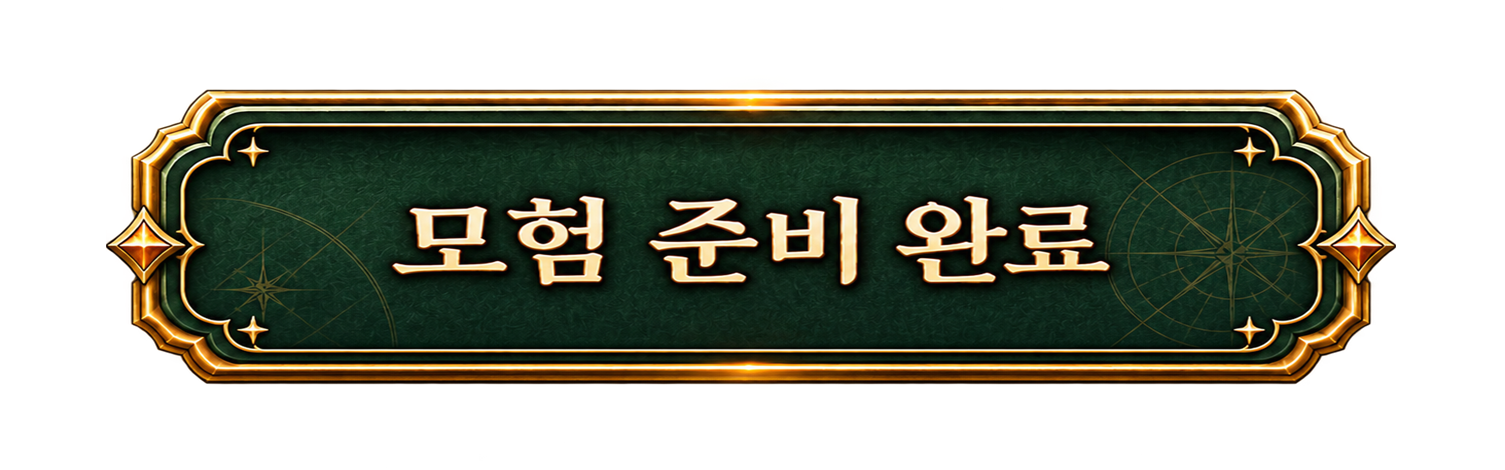
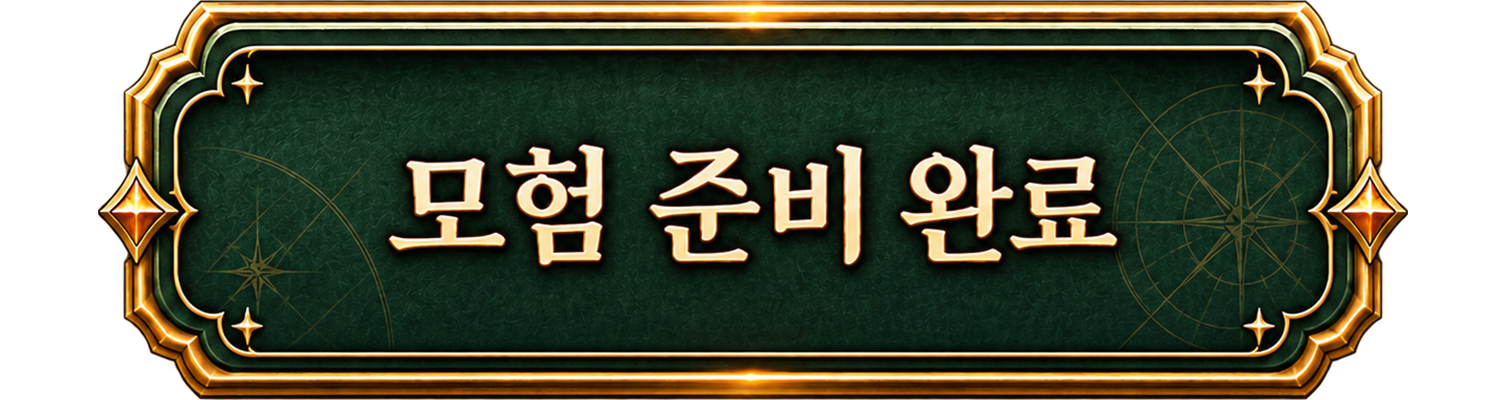
feat: 시작화면 포스터 카피 복원(v4 아트)·NBTI 2분할 조정·최종 CTA 왜곡 수정·파비콘
- 시작화면: 글씨 없는 v4 배경, 삭제했던 카피 전부 DOM 복원, 좌측을 제목처럼 채우는
  포스터 스케일 타이포, 버튼 라벨 '교실 NBTI 시작하기'
- NBTI 질문: 좌측 보드 850px 고정(질문마다 크기 불변)·좌측 끝 밀착·위로 이동,
  우측 플레이어 보드 우상단(시선 높이)·불투명 배경·아바타 헤더·슬롯 확대
- 헤더: 곡제목 좌로 흐르는 마퀴 복원, 로고-워드마크 균형 조정
- 모험 준비 완료 4상태: 비율 왜곡 제거(알파 크롭+등비 재생성), 지역 9열로 밀림 해소
- 닉네임 플레이스홀더·보조문구 위치, 파비콘 엠블럼+비활성 회색 스왑
- 선생님 패널 성장 목표 불릿, 정면 아바타

diff --git a/src/features/journey/journey-shared.css b/src/features/journey/journey-shared.css
@@ -7,35 +7,14 @@
 
 .journey-header { align-items: center; border-bottom: 1px solid rgba(255,242,201,.15); display: flex; height: clamp(66px, 8.3vh, 88px); justify-content: space-between; left: 0; padding: 0 clamp(22px, 4.1vw, 78px); position: absolute; right: 0; top: 0; z-index: 5; }.journey-header .logo-slot { align-items: center; background: radial-gradient(circle at 35% 28%, rgba(255,242,184,.2), transparent 31%), rgba(4,18,11,.68); border: 1px solid rgba(232,202,112,.72); border-radius: 50%; box-shadow: inset 0 0 0 2px rgba(255,246,204,.08), 0 4px 12px rgba(0,0,0,.28); color: #f3d982; display: grid; height: 44px; justify-items: center; padding: 3px; position: relative; width: 44px; }.journey-header .logo-slot::after { content: none; }.journey-header .logo-slot > svg { height: 34px; width: 34px; }.journey-header__actions { align-items: center; display: flex; gap: 8px; }.journey-header .audio-toggle { align-items: center; background: linear-gradient(145deg, rgba(32,54,31,.9), rgba(7,24,14,.92)); border: 1px solid rgba(235,207,115,.48); border-radius: 12px; box-shadow: inset 0 1px rgba(255,255,255,.11), 0 4px 10px rgba(0,0,0,.22); color: #fff2be; cursor: pointer; display: inline-flex; height: 44px; justify-content: center; position: relative; transition: background .2s ease, border-color .2s ease, box-shadow .2s ease, transform .2s ease; width: 44px; }.journey-header .audio-toggle:hover, .journey-header .audio-toggle:focus-visible { background: linear-gradient(145deg, rgba(59,101,52,.96), rgba(13,55,30,.96)); border-color: #f2d77a; box-shadow: inset 0 1px rgba(255,255,255,.18), 0 5px 12px rgba(0,0,0,.28); transform: translateY(-1px); }.journey-header .audio-toggle.is-enabled { background: linear-gradient(145deg, #4d9654, #1f633e); }.journey-header .audio-toggle__slash { background: #f3d274; height: 2px; position: absolute; transform: rotate(-45deg); width: 25px; }.journey-header__teacher { align-items: center; background: linear-gradient(135deg, rgba(49,66,34,.96), rgba(20,40,23,.96)); border: 1px solid rgba(235,207,115,.58); border-radius: 12px; box-shadow: inset 0 1px rgba(255,255,255,.12), 0 4px 11px rgba(0,0,0,.24); color: #fff3c6; cursor: pointer; display: inline-flex; font-size: 13px; font-weight: 800; gap: 7px; height: 44px; margin-left: 2px; padding: 0 12px 0 5px; transition: background .2s ease, border-color .2s ease, box-shadow .2s ease, transform .2s ease; }.journey-header__teacher:hover, .journey-header__teacher:focus-visible { background: linear-gradient(135deg, rgba(71,94,45,.98), rgba(25,55,29,.98)); border-color: #f2d77a; box-shadow: inset 0 1px rgba(255,255,255,.17), 0 5px 12px rgba(0,0,0,.28); transform: translateY(-1px); }.journey-header__teacher > span { align-items: center; background: linear-gradient(145deg, #507d4a, #a47b32); border: 1px solid rgba(255,242,194,.72); border-radius: 50%; color: #fff8db; display: inline-flex; font-size: 10px; height: 31px; justify-content: center; width: 31px; }
 
-/* Start screen, wide layout: start-master-v3 already paints the kicker, headline, sub-copy,
-   fact chips, quest board and headphone note, so the DOM only contributes the two buttons.
-   The copy stays in the markup because phones swap to a textless plate and still need it. */
-@media (min-width: 701px) {
-  .journey-scene--start .journey-start__copy > :not(.journey-start__actions) { display: none; }
-  /* The painting carries its own darkening; the shared wash would double it and muddy the art. */
-  .journey-scene--start .journey-art__wash,
-  .journey-scene--start .journey-art__motes,
-  .journey-scene--start .journey-art__leaves { display: none; }
-  /* fill, not cover or contain: this master is a layout whose painted copy has to stay
-     under buttons pinned to percentages of it. cover crops (moving the copy sideways) and
-     contain letterboxes; fill maps the image 1:1 onto the viewport, so every percentage
-     below is exact and no edge is lost. The 16:9 -> 16:10 stretch is imperceptible here. */
-  .journey-scene--start .journey-art img { object-fit: fill; }
-  .journey-scene--start .journey-scene__stage { padding: 0; }
-  .journey-scene--start .journey-start__copy { align-self: stretch; height: 100%; justify-self: stretch; margin: 0; max-width: none; padding: 0; position: relative; width: 100%; }
-  /* Spans exactly the three painted fact chips above it (8.07%-41.27% of the master),
-     in the empty band between those chips and the headphone note. */
-  .journey-scene--start .journey-start__actions { align-items: center; display: flex; gap: clamp(8px, .7vw, 14px); left: 8.07%; max-width: none; position: absolute; top: 74.5%; width: 33.2%; }
-  .journey-scene--start .journey-start__actions .journey-button { flex: 1 1 0; font-size: clamp(11px, .95vw, 16px); gap: 7px; min-height: clamp(38px, 6.4svh, 58px); min-width: 0; padding: 0 clamp(6px, .7vw, 14px); }
-  .journey-scene--start .journey-start__actions .journey-button--secondary { justify-self: stretch; }
-  .journey-scene--start .journey-start__actions .journey-button__seal { flex: 0 0 auto; height: clamp(18px, 1.5vw, 26px); width: clamp(18px, 1.5vw, 26px); }
-  .journey-scene--start .journey-start__actions .journey-button > svg { flex: 0 0 auto; height: clamp(15px, 1.2vw, 21px); width: clamp(15px, 1.2vw, 21px); }
-}
-
 /* Header cluster — one translucent glass pill holding bgm button, song title, equalizer,
    and the profile trigger, mirroring Be a Googler's desktop cluster shape. */
 .journey-cluster { align-items: center; backdrop-filter: blur(22px) saturate(1.08); background: linear-gradient(128deg, rgba(20,42,26,.62), rgba(8,26,15,.5)); border: 1px solid rgba(255,244,204,.34); border-radius: 34px; box-shadow: 0 10px 24px rgba(0,0,0,.26), inset 0 1px 0 rgba(255,252,230,.22); display: flex; gap: 10px; min-height: 58px; padding: 0 8px 0 8px; }
-.journey-song { color: #fff3c6; display: block; flex: 0 1 auto; font-size: clamp(12px, .72vw, 14px); font-weight: 700; letter-spacing: -.02em; line-height: 1.4; min-width: 0; overflow: hidden; text-overflow: ellipsis; white-space: nowrap; }
+.journey-song { color: #fff3c6; display: block; flex: 0 1 auto; font-size: clamp(12px, .72vw, 14px); font-weight: 700; letter-spacing: -.02em; line-height: 1.4; mask-image: linear-gradient(90deg, transparent, #000 9%, #000 91%, transparent); max-width: clamp(150px, 14vw, 240px); min-width: 0; overflow: hidden; position: relative; white-space: nowrap; }
+.journey-song__track { animation: journey-song-marquee 16s linear infinite; display: flex; width: max-content; }
+.journey-song__track > span { flex: 0 0 auto; padding-right: 8.5em; }
+@keyframes journey-song-marquee { from { transform: translateX(0); } to { transform: translateX(-50%); } }
+@media (prefers-reduced-motion: reduce) { .journey-song__track { animation: none; } .journey-song__track > span:last-child { display: none; } }
 .journey-equalizer { align-items: end; display: grid; flex: 0 0 auto; gap: 3px; grid-template-columns: repeat(6, 3px); height: 24px; justify-content: center; width: 40px; }
 .journey-equalizer i { background: linear-gradient(#ffe9a0, #e0ab3c); border-radius: 99px; box-shadow: 0 0 6px rgba(255,222,130,.45); height: 6px; opacity: .5; }
 .journey-equalizer.is-playing i { animation: journey-equalize .78s ease-in-out infinite alternate; opacity: 1; }
@@ -63,7 +42,25 @@
 @media (max-width: 1280px) { .journey-song, .journey-equalizer { display: none; } }
 @media (max-width: 900px) { .journey-cluster { backdrop-filter: none; background: rgba(7,24,14,.72); gap: 6px; min-height: 50px; } .journey-cluster__divider { display: none; } .journey-header__identity { display: none; } .journey-header__profile { padding: 2px; } .journey-header__profile img { height: 38px; width: 38px; } .journey-header__profile > svg { display: none; } }
 
-.journey-scene__stage { align-items: center; display: grid; min-height: 100svh; padding: calc(clamp(62px, 8.3vh, 88px) + clamp(24px, 4.2vh, 64px)) clamp(24px, 5.1vw, 98px) clamp(26px, 4.3vh, 55px); position: relative; width: 100%; }.journey-enter { animation: journey-enter .22s both cubic-bezier(.2,.8,.2,1); }.journey-kicker { color: var(--gold); font-size: clamp(11px, .82vw, 15px); font-weight: 900; letter-spacing: .16em; margin: 0 0 16px; text-transform: uppercase; }.journey-kicker span { padding: 0 5px; }.journey-notice { background: rgba(8,23,13,.88); border: 1px solid rgba(246,216,127,.54); border-radius: 10px; bottom: 21px; color: #fff4cb; font-size: 13px; font-weight: 700; left: 50%; margin: 0; max-width: min(90vw, 560px); padding: 10px 16px; position: fixed; text-align: center; transform: translateX(-50%); z-index: 20; }
+.journey-scene__stage { align-items: center; display: grid; min-height: 100svh; padding: calc(clamp(62px, 8.3vh, 88px) + clamp(24px, 4.2vh, 64px)) clamp(24px, 5.1vw, 98px) clamp(26px, 4.3vh, 55px); position: relative; width: 100%; }
+/* Poster-scale start copy: the headline owns the dark left half of the art. Placed after
+   the base rules (and matching the height-capped override below by scope) so it wins. */
+@media (min-width: 701px) {
+  .journey-scene--start .journey-start__copy { margin-left: clamp(4px, 1.2vw, 30px); max-width: min(44vw, 800px); }
+  .journey-scene--start .journey-kicker { font-size: clamp(13px, 1vw, 19px); margin-bottom: clamp(16px, 2.2vh, 30px); }
+  .journey-scene--start .journey-start__copy h1 { font-size: clamp(52px, 5.5vw, 112px); line-height: 1.04; }
+  .journey-scene--start .journey-start__copy h1 span { display: block; }
+  .journey-scene--start .journey-start__description { font-size: clamp(16px, 1.25vw, 23px); line-height: 1.75; margin: clamp(26px, 4vh, 48px) 0 clamp(24px, 3.6vh, 44px); }
+  .journey-scene--start .journey-start__cards { gap: clamp(11px, 1vw, 18px); margin-bottom: clamp(24px, 3.6vh, 46px); max-width: 760px; }
+  .journey-scene--start .journey-start__cards li { min-height: clamp(84px, 9.4vh, 108px); padding: 12px 15px; }
+  .journey-scene--start .journey-start__cards b { font-size: clamp(14px, 1.05vw, 19px); }
+  .journey-scene--start .journey-start__cards small { font-size: clamp(11px, .85vw, 15px); }
+  .journey-scene--start .journey-start__cards svg { height: clamp(30px, 2.4vw, 44px); width: clamp(30px, 2.4vw, 44px); }
+  .journey-scene--start .journey-start__actions { gap: clamp(12px, 1.4vh, 18px); max-width: 660px; }
+  .journey-scene--start .journey-start__actions .journey-button--primary { font-size: clamp(17px, 1.35vw, 25px); min-height: clamp(64px, 7.6vh, 84px); }
+  .journey-scene--start .journey-start__actions .journey-button--secondary { font-size: clamp(13px, 1vw, 18px); min-height: clamp(50px, 5.8vh, 64px); min-width: 300px; }
+  .journey-scene--start .journey-start__audio-note { font-size: clamp(12px, .9vw, 16px); margin-top: clamp(16px, 2.4vh, 28px); }
+}.journey-enter { animation: journey-enter .22s both cubic-bezier(.2,.8,.2,1); }.journey-kicker { color: var(--gold); font-size: clamp(11px, .82vw, 15px); font-weight: 900; letter-spacing: .16em; margin: 0 0 16px; text-transform: uppercase; }.journey-kicker span { padding: 0 5px; }.journey-notice { background: rgba(8,23,13,.88); border: 1px solid rgba(246,216,127,.54); border-radius: 10px; bottom: 21px; color: #fff4cb; font-size: 13px; font-weight: 700; left: 50%; margin: 0; max-width: min(90vw, 560px); padding: 10px 16px; position: fixed; text-align: center; transform: translateX(-50%); z-index: 20; }
 
 .journey-button { align-items: center; border-radius: 12px; cursor: pointer; display: inline-flex; font-weight: 900; justify-content: center; transition: background .2s ease, border-color .2s ease, box-shadow .2s ease, transform .2s ease; }.journey-button:hover:not(:disabled), .journey-button:focus-visible:not(:disabled) { box-shadow: inset 0 1px rgba(255,255,255,.62), 0 8px 16px rgba(0,0,0,.3); transform: translateY(-1px); }.journey-button:active:not(:disabled) { transform: translateY(1px); }.journey-button:disabled { cursor: not-allowed; opacity: .55; }.journey-button--primary { background: linear-gradient(112deg, #70ad4b 0%, #2f884f 48%, #07563a 100%); border: 1px solid #eadb9c; border-bottom: 4px solid #0a422d; box-shadow: 0 0 0 1px rgba(237,211,124,.3), inset 0 2px rgba(255,255,255,.5), inset 0 -8px 17px rgba(0,48,27,.24), 0 8px 15px rgba(0,0,0,.34); color: #fffdee; font-size: clamp(15px,1.25vw,21px); gap: 12px; min-height: 65px; padding: 0 22px; text-shadow: 0 2px 3px rgba(0,0,0,.3); }.journey-button--primary > span { flex: 1; text-align: center; }.journey-button__seal { height: 31px; width: 31px; }.journey-button--secondary { background: linear-gradient(135deg,#f6f1df,#d8c8a6); border: 1px solid #c8aa6b; border-bottom: 3px solid #947b54; box-shadow: inset 0 1px rgba(255,255,255,.82), inset 0 -5px 10px rgba(113,80,35,.08), 0 4px 10px rgba(0,0,0,.22); color: #3d3425; font-size: 14px; gap: 8px; min-height: 50px; padding: 0 18px; }
 
@@ -96,8 +93,8 @@
 .journey-header .classcade-wordmark {
   display: block;
   filter: drop-shadow(0 0 10px rgba(255,214,110,.4)) drop-shadow(0 1px 4px rgba(0,0,0,.5));
-  height: 42px;
-  margin: 5px 0 0 -8px;
+  height: 33px;
+  margin: 14px 0 0 -10px;
   object-fit: contain;
   position: relative;
   width: auto;
@@ -118,8 +115,12 @@
 .journey-question__sidebar { background: linear-gradient(160deg, rgba(255,251,232,.7), rgba(228,203,140,.55)); border: 1px solid rgba(123,82,27,.32); border-radius: 4px; box-shadow: inset 0 1px rgba(255,255,255,.6); color: #4a3819; padding: 16px 15px; }
 .journey-question__sidebar > .journey-kicker { color: #8c672a; font-size: 10px; margin: 0; }
 .journey-question__sidebar > h2 { color: #2f2718; font-family: 'Gowun Batang', serif; font-size: 17px; letter-spacing: -.04em; margin: 2px 0 10px; }
-.journey-question__sidebar-emblem { display: grid; place-items: center; margin: 0 auto 10px; width: 58px; }
-.journey-question__sidebar-emblem svg { filter: drop-shadow(0 2px 6px rgba(60,38,10,.28)); height: 58px; width: 58px; }
+/* Same circle size the old compass emblem used (58px), left-aligned with the name beside it. */
+.journey-question__sidebar-profile { align-items: center; display: flex; gap: 9px; margin: 0 0 10px; }
+.journey-question__sidebar-profile img { border: 2px solid rgba(255,250,224,.9); border-radius: 50%; box-shadow: 0 2px 8px rgba(60,38,10,.3); flex: 0 0 auto; height: 58px; object-fit: cover; width: 58px; }
+.journey-question__sidebar-profile span { display: grid; gap: 1px; min-width: 0; }
+.journey-question__sidebar-profile small { color: #8c672a; font-size: 10px; font-weight: 800; letter-spacing: -.02em; }
+.journey-question__sidebar-profile strong { color: #2f2718; font-size: 15px; font-weight: 820; letter-spacing: -.03em; overflow: hidden; text-overflow: ellipsis; white-space: nowrap; }
 .journey-question__sidebar-stat { align-items: baseline; display: flex; font-size: 11px; font-weight: 800; justify-content: space-between; }
 .journey-question__sidebar-stat b { color: #2d7d49; font-size: 15px; }
 .journey-question__sidebar-track { background: rgba(88,112,57,.18); border: 1px solid rgba(70,104,43,.25); border-radius: 999px; height: 6px; margin: 6px 0 14px; overflow: hidden; }
@@ -131,8 +132,9 @@
 .journey-question__sidebar-chips { display: flex; flex-wrap: wrap; gap: 6px; }
 .journey-question__sidebar-chips span { background: rgba(255,255,255,.55); border: 1px solid rgba(123,82,27,.3); border-radius: 999px; color: #8c7749; font-size: 11px; font-weight: 800; padding: 5px 10px; }
 .journey-question__sidebar-chips span.is-revealed { background: rgba(58,123,64,.14); border-color: #3a7b40; color: #2d7d49; }
-.journey-question__sidebar-slots { display: grid; gap: 7px; grid-template-columns: repeat(4, 1fr); }
-.journey-question__sidebar-slots span { align-items: center; aspect-ratio: 1; background: rgba(255,255,255,.5); border: 1px solid rgba(123,82,27,.28); border-radius: 8px; color: #a4915f; display: grid; font-size: 15px; font-weight: 800; justify-content: center; }
+.journey-question__sidebar-slots { display: grid; gap: 8px; grid-template-columns: repeat(4, 1fr); }
+.journey-question__sidebar-slots span { align-items: center; aspect-ratio: 1; background: rgba(255,255,255,.5); border: 1px solid rgba(123,82,27,.28); border-radius: 8px; color: #a4915f; display: grid; font-size: 17px; font-weight: 800; justify-content: center; }
+.journey-question__sidebar-slots span > svg { height: 24px; width: 24px; }
 .journey-question__sidebar-slots span.is-unlocked { background: rgba(58,123,64,.14); border-color: #3a7b40; color: #2d7d49; }
 .journey-game-choice { max-width: 920px; }.journey-game-choice__body { padding: clamp(28px,4vw,58px) 0 26px; position: relative; text-align: center; z-index: 1; }.journey-game-choice__body > p:last-of-type { margin-left: auto; margin-right: auto; max-width: 560px; }.journey-game-choice__options { margin: 29px auto 0; max-width: 720px; }.journey-choice--game { min-height: 166px; }.journey-choice--game b, .journey-choice--game small { max-width: 82%; }
 

diff --git a/src/features/journey/scenes/NbtiScenes.tsx b/src/features/journey/scenes/NbtiScenes.tsx
@@ -1,11 +1,12 @@
 import { useState, type ReactNode } from 'react'
 import { prepNavBack, prepNavCtaEnabled, prepNavCtaDisabled } from '../../../components/prep/prepAssets'
+import profileAvatar from '../../../assets/brand/profile-avatar-front.png'
 import { ClasscadeLockup, CompassSeal, Icon, type IconName } from '../../../components/VisualPrimitives'
 import { NBTI_AXES, NBTI_QUESTIONS, NBTI_TOTAL_QUESTIONS, type NbtiAxis, type NbtiDirection } from '../../../data/nbti.provisional'
 import { getProvisionalResult } from '../../../data/nbtiResults.provisional'
 import { PrimaryButton, Progress, SceneFrame, SecondaryButton, type JourneySceneProps } from '../components/SceneFrame'
 
-const journeyItems = [{ icon: 'clock' as const, title: '약 2분', detail: '교실 장면 16개' }, { icon: 'spark' as const, title: '정답 없음', detail: '중립 선택 없음' }, { icon: 'gamepad' as const, title: '우리 반 놀이', detail: '결과로 이어져요' }]
+const journeyItems = [{ icon: 'clock' as const, title: '약 1분', detail: '간단한 여정' }, { icon: 'spark' as const, title: '캐릭터 성장', detail: '선택이 힘이 돼요' }, { icon: 'gamepad' as const, title: '우리 반 게임', detail: '까지 연결돼요' }]
 const directionLabels: Record<NbtiDirection, string> = { design: '설계', response: '반응', whole: '전체', individual: '개별', criteria: '기준', empathy: '공감', completion: '완성', expansion: '확장' }
 
 /** Real MBTI letters (E/I, S/N, T/F, J/P), built from the 16 questions' answers.
@@ -81,14 +82,16 @@ const ITEMS: readonly { icon: IconName | null; name: string }[] = [
   { icon: null, name: '빈 슬롯' },
 ]
 
-/** Placeholder character emblem until a growing-character illustration set exists — the panel's data (axis leanings, skill/item unlocks) is real and swaps in cleanly once art lands. */
-function GrowingPlayerPanel({ growth, answers }: { growth: number; answers: Record<string, string> }) {
+function GrowingPlayerPanel({ growth, answers, nickname }: { growth: number; answers: Record<string, string>; nickname?: string }) {
   const unlockedSkills = Math.min(SKILLS.length, Math.floor(growth / 25))
   return (
     <aside className="journey-panel journey-question__sidebar" aria-label="만들어지는 나의 교실 플레이어">
       <p className="journey-kicker">✦ 만들어지는</p>
       <h2>나의 교실 플레이어</h2>
-      <div className="journey-question__sidebar-emblem" aria-hidden="true"><CompassSeal /></div>
+      <div className="journey-question__sidebar-profile">
+        <img src={profileAvatar} alt="" aria-hidden="true" />
+        <span><small>교실 탐험가</small><strong>{nickname ?? '선생님'}</strong></span>
+      </div>
       <div className="journey-question__sidebar-stat"><span>현재 완성도</span><b>{growth}%</b></div>
       <div className="journey-question__sidebar-track" aria-hidden="true"><i style={{ width: `${growth}%` }} /></div>
       <div className="journey-question__sidebar-block">
@@ -129,19 +132,18 @@ function GrowingPlayerPanel({ growth, answers }: { growth: number; answers: Reco
 export function StartScene(props: JourneySceneProps) {
   return (
     <SceneFrame scene="start" {...props}>
-      {/* Desktop paints the headline, sub-copy, chips and headphone note into start-master-v3,
-          so CSS hides everything here except the buttons. Phones swap to a textless plate, so
-          the same markup still has to carry the copy there — hence hidden, not deleted. */}
+      {/* v4 art carries no UI text on the left, so the copy is live DOM again, matching the
+          reference lockup: kicker, headline with the gold word, sub-copy, fact chips,
+          stacked buttons, headphone note. The quest board is painted into the art. */}
       <div className="journey-start__copy journey-enter">
         <p className="journey-kicker"><span>✦</span> NBTI ADVENTURE <span>✦</span></p>
-        <h1 data-tune-id="main-title"><span>교실 속 나를 발견하다.</span><span><em>놀이로</em> 확장하다.</span></h1>
-        <p className="journey-start__description" data-tune-id="main-description">16개의 교실 장면에서 발견한 성향이, 우리 반 놀이의 시작점이 됩니다.</p>
-        <p className="journey-start__guide">평소의 성격이 아니라, 학생들 앞에 선 순간의 나를 떠올려 주세요.<br />두 선택 모두 좋은 교사의 방식입니다. 완전히 같지 않아도 교실에서 조금 더 자주 하는 쪽을 골라 주세요.</p>
+        <h1 data-tune-id="main-title"><span>당신의 교실 플레이</span><span><em>모험이</em> 시작됩니다</span></h1>
+        <p className="journey-start__description" data-tune-id="main-description">여러분의 선택으로 나의 교실 유형을 발견하고,<br />선생님 캐릭터를 성장시켜 보세요.</p>
         <ul className="journey-start__cards" aria-label="여정 정보">
           {journeyItems.map((item) => <li key={item.title}><Icon name={item.icon} size={25} /><span><b>{item.title}</b><small>{item.detail}</small></span></li>)}
         </ul>
         <div className="journey-start__actions">
-          <PrimaryButton onClick={() => props.onAction({ type: 'START_NBTI' })} tuneId="main-primary-cta">16개의 교실 장면 시작하기</PrimaryButton>
+          <PrimaryButton onClick={() => props.onAction({ type: 'START_NBTI' })} tuneId="main-primary-cta">교실 NBTI 시작하기</PrimaryButton>
           {props.state.resumeStage ? <SecondaryButton onClick={() => props.onAction({ type: 'RESUME_JOURNEY' })} tuneId="main-resume-cta"><Icon name="reset" size={20} />이전 여정 이어가기</SecondaryButton> : <SecondaryButton onClick={() => props.onAction({ type: 'RESET_NBTI' })} tuneId="main-resume-cta"><Icon name="reset" size={20} />새로 시작하기</SecondaryButton>}
         </div>
         <p className="journey-start__audio-note" data-tune-id="main-headphone-note"><Icon name="speaker" size={17} />헤드폰을 착용하면 BGM과 효과음이 더욱 몰입감을 높여줘요.</p>
@@ -184,7 +186,7 @@ export function QuestionScene(props: JourneySceneProps) {
           </div>
           <p className="journey-panel__fineprint">이 탐색은 체험용 교실 플레이 안내이며, 과학적 성격 진단이 아닙니다.</p>
         </div>
-        <GrowingPlayerPanel growth={growth} answers={props.state.answers} />
+        <GrowingPlayerPanel growth={growth} answers={props.state.answers} nickname={props.profile?.nickname} />
       </div>
     </SceneFrame>
   )

diff --git a/src/entry-shared.css b/src/entry-shared.css
@@ -250,7 +250,7 @@
 .entry-prep--nickname .entry-prep__panel { margin-left: clamp(14px, 18vw, 340px); width: min(60vw, 780px); }.entry-prep__panel--nickname { display: flex; flex-direction: column; min-height: min(79svh, 790px); }.entry-nickname { align-items: center; display: grid; flex: 1; justify-items: center; padding: 24px 0 16px; text-align: center; }.entry-nickname__orb { background: radial-gradient(circle, rgba(255,236,150,.34), transparent 67%); display: grid; margin-bottom: 7px; place-items: center; }.entry-nickname__orb svg { filter: drop-shadow(0 0 15px rgba(241,194,71,.66)); height: 78px; width: 78px; }
 /* The stacked lockup sits softly ("은은하게") above the kicker: reduced opacity, no glow halo. */
 .entry-nickname__orb--lockup { background: none; }
-.entry-nickname__orb--lockup img, .entry-nickname__orb--lockup svg { filter: drop-shadow(0 2px 8px rgba(90,62,18,.25)); height: auto; max-height: 118px; opacity: .82; width: clamp(120px, 11vw, 172px); }.entry-kicker { color: #9b742e; font-size: 12px; font-weight: 800; letter-spacing: .15em; margin: 0 0 9px; }.entry-nickname h1 { color: #20271d; font-family: 'Gowun Batang', serif; font-size: clamp(35px, 4vw, 60px); letter-spacing: -.11em; margin: 0; }.entry-nickname > p { color: #5d4826; font-size: 17px; font-weight: 700; margin: 12px 0 28px; }.entry-nickname label { display: grid; gap: 9px; max-width: 530px; text-align: left; width: 100%; }.entry-nickname label > span { color: #6b4d25; font-size: 13px; font-weight: 800; }.entry-nickname input { background: rgba(255,251,229,.84); border: 1px solid #9c7033; box-shadow: inset 0 2px 5px rgba(92,51,14,.09); color: #2e2516; font-family: 'Gowun Batang', serif; font-size: 21px; font-weight: 700; min-height: 64px; outline-color: #c79531; padding: 0 19px; }.entry-nickname small { color: #81633a; font-size: 12px; font-weight: 700; line-height: 1.5; margin-top: 11px; max-width: 530px; text-align: left; width: 100%; }
+.entry-nickname__orb--lockup img, .entry-nickname__orb--lockup svg { filter: drop-shadow(0 2px 8px rgba(90,62,18,.25)); height: auto; max-height: 118px; opacity: .82; width: clamp(120px, 11vw, 172px); }.entry-kicker { color: #9b742e; font-size: 12px; font-weight: 800; letter-spacing: .15em; margin: 0 0 9px; }.entry-nickname h1 { color: #20271d; font-family: 'Gowun Batang', serif; font-size: clamp(35px, 4vw, 60px); letter-spacing: -.11em; margin: 0; }.entry-nickname > p { color: #5d4826; font-size: 17px; font-weight: 700; margin: 12px 0 28px; }.entry-nickname label { display: grid; gap: 9px; max-width: 530px; text-align: left; width: 100%; }.entry-nickname label > span { color: #6b4d25; font-size: 13px; font-weight: 800; }.entry-nickname input { background: rgba(255,251,229,.84); border: 1px solid #9c7033; box-shadow: inset 0 2px 5px rgba(92,51,14,.09); color: #2e2516; font-family: 'Gowun Batang', serif; font-size: 21px; font-weight: 700; min-height: 64px; outline-color: #c79531; padding: 0 19px; }.entry-nickname small { color: #81633a; font-size: 12px; font-weight: 700; line-height: 1.5; margin-top: 5px; max-width: 530px; text-align: left; width: 100%; }
 
 .entry-loading { align-items: center; display: grid; justify-items: center; }.entry-loading__reference { object-position: center; }.entry-loading__veil { background: radial-gradient(circle at 51% 42%, rgba(17,41,23,.02), rgba(1,7,4,.75) 70%), rgba(0,4,2,.35); }.entry-loading__copy { color: #ffe8a2; display: grid; justify-items: center; margin-top: 5vh; position: relative; text-align: center; z-index: 1; }.entry-loading__seal { filter: drop-shadow(0 0 18px rgba(255,206,85,.82)); height: clamp(150px, 19vw, 250px); width: clamp(150px, 19vw, 250px); }.entry-loading h1 { font-family: 'Gowun Batang', serif; font-size: clamp(36px, 4vw, 62px); letter-spacing: -.11em; margin: 23px 0 7px; text-shadow: 0 3px 13px rgba(0,0,0,.7); }.entry-loading__copy > p { color: #f1d18a; font-family: 'Gowun Batang', serif; font-size: clamp(16px, 1.5vw, 23px); font-weight: 700; margin: 0; }.entry-loading__dots { display: flex; gap: 12px; margin: 20px 0 29px; }.entry-loading__dots i { animation: entry-pulse 1.2s ease-in-out infinite; background: #ffe8a1; border-radius: 50%; box-shadow: 0 0 11px #ffca54; height: 10px; width: 10px; }.entry-loading__dots i:nth-child(2) { animation-delay: .16s; }.entry-loading__dots i:nth-child(3) { animation-delay: .32s; }.entry-loading__track { background: rgba(1, 14, 7, .82); border: 2px solid #d9a842; box-shadow: inset 0 0 0 2px rgba(255,234,142,.27), 0 0 15px rgba(0,0,0,.46); height: 25px; max-width: 575px; padding: 3px; width: min(65vw, 575px); }.entry-loading__track i { background: linear-gradient(90deg, #b77c24, #ffe286 75%, #fff8c4); box-shadow: 0 0 12px rgba(255,211,101,.68); display: block; height: 100%; transition: width .42s ease; }.entry-loading__wait { margin-top: 20px !important; }.entry-loading__error { color: #ffb4a1 !important; font-size: 13px !important; margin-top: 11px !important; }
 

diff --git a/src/features/journey/journey-board.css b/src/features/journey/journey-board.css
@@ -42,12 +42,30 @@
   display: flex;
   gap: clamp(24px, 4vw, 90px);
   justify-content: space-between;
-  width: var(--classcade-board, min(94vw, 1180px));
-  zoom: var(--board-zoom, 1);
+  /* Full stage width, hard against both edges: the question board hugs the left and the
+     player board hugs the right, leaving the backdrop's subject open between them.
+     No zoom here — at 1.32 the zoomed width would overflow the viewport. */
+  width: 100%;
+  zoom: 1;
+}
+/* The stage's generous side padding is for centred boards; this screen pins hard to the
+   edges and rides higher than the other scenes. */
+@media (min-width: 1101px) {
+  .journey-scene--question .journey-scene__stage { padding-left: 10px; padding-right: 10px; padding-top: calc(clamp(62px, 8.3vh, 88px) + 14px); }
 }
 .journey-question-split > .journey-panel { width: auto; zoom: 1; }
-.journey-question-split > .journey-question { flex: 1 1 auto; min-width: 0; }
-.journey-question-split > .journey-question__sidebar { flex: 0 0 clamp(232px, 23%, 300px); }
+.journey-question-split > .journey-question { flex: 0 1 850px; min-width: 0; }
+/* Rides high on the right, level with the backdrop character's eyeline, instead of
+   stretching to the question board's full height. */
+.journey-question-split > .journey-question__sidebar { align-self: flex-start; flex: 0 0 clamp(240px, 17.5vw, 300px); margin-top: 0; }
+
+/* Compact type so the left board fits common laptop heights without its inner scrollbar. */
+.journey-question-split .journey-question__copy h1 { font-size: clamp(21px, 1.75vw, 29px); }
+.journey-question-split .journey-question__copy > p:last-of-type { font-size: clamp(11px, .85vw, 13px); }
+.journey-question-split .journey-question__choices .journey-choice b { font-size: clamp(15px, 1.15vw, 20px); }
+.journey-question-split .journey-question__choices .journey-choice small { font-size: clamp(11px, .85vw, 13px); }
+.journey-question-split .journey-question__choices .journey-choice { padding: clamp(12px, 1.1vw, 18px) clamp(14px, 1.3vw, 22px); }
+.journey-question-split .journey-question__body { padding: clamp(12px, 1.4vw, 22px) 0 12px; }
 
 .journey-question__body {
   align-items: start;
@@ -65,11 +83,18 @@
 
 /* Labeled skill/item slots: icon box with its name underneath. */
 .journey-question__sidebar-slots--labeled { align-items: start; }
-.journey-question__sidebar-slots--labeled figure { display: grid; gap: 4px; justify-items: center; margin: 0; }
-.journey-question__sidebar-slots--labeled figcaption { color: #77531d; font-size: 10px; font-weight: 800; letter-spacing: -.04em; line-height: 1.2; text-align: center; white-space: nowrap; }
+.journey-question__sidebar-slots--labeled figure { display: grid; gap: 5px; justify-items: center; margin: 0; }
+.journey-question__sidebar-slots--labeled figcaption { color: #5c4118; font-size: 11px; font-weight: 800; letter-spacing: -.04em; line-height: 1.2; text-align: center; white-space: nowrap; }
+
+/* Constant board size: the panel's height comes from the viewport, not from how long
+   this particular question's text happens to be — no grow/shrink between questions. */
+.journey-question-split > .journey-question { height: min(820px, calc((100svh - 96px) / var(--board-zoom, 1))); }
+
+/* Fully opaque player board — translucency over the busy backdrop hurt readability. */
+.journey-question-split > .journey-question__sidebar { background: linear-gradient(160deg, #fffbe8, #e9d3a0); }
 
 /* The drawn nav plaques, sized like the prep flow's. */
-.journey-nav-img { background: none; border: 0; cursor: pointer; flex: 0 0 auto; padding: 0; width: clamp(200px, 18.5vw, 280px); }
+.journey-nav-img { background: none; border: 0; cursor: pointer; flex: 0 0 auto; padding: 0; width: clamp(180px, 15vw, 236px); }
 .journey-nav-img img { display: block; height: auto; width: 100%; }
 .journey-nav-img:disabled { cursor: default; }
 .journey-nav-img:not(:disabled):hover img, .journey-nav-img:focus-visible img { filter: brightness(1.09); }

diff --git a/src/components/AdventurePrepScreen.tsx b/src/components/AdventurePrepScreen.tsx
@@ -251,7 +251,7 @@ export function AdventurePrepScreen({ initialProfile, audio, exiting, isOffline,
           <p className="entry-kicker">✦ 여정의 마지막 준비 ✦</p>
           <h1 id="nickname-title"><span>용사님의 닉네임을</span> <span>알려주세요</span></h1>
           <p>이 여정에서 불릴 이름이에요.</p>
-          <label><input value={nickname} maxLength={16} autoComplete="off" aria-label="용사 닉네임" placeholder="예: 플레이메이커쌤" onChange={(event) => setNickname(event.target.value.slice(0, 16))} /></label>
+          <label><input value={nickname} maxLength={16} autoComplete="off" aria-label="용사 닉네임" placeholder="예: 우리 같이 놀아요" onChange={(event) => setNickname(event.target.value.slice(0, 16))} /></label>
           <small>실제 이름이나 학교명 대신, 이 모험에서 사용할 별명을 적어주셔도 좋아요.</small>
         </div>
         <footer className="entry-prep__footer">
@@ -326,7 +326,7 @@ export function AdventurePrepScreen({ initialProfile, audio, exiting, isOffline,
         {flat && step === 2 && <PrepFlatCards options={CAREER_RANGE_OPTIONS} value={careerRange} onChange={setCareerRange} tunePrefix="prep-2" ariaLabel="선생님의 교실 여정" icons={CAREER_ICONS} columns={5} />}
         {step === 3 && region && <p className="entry-prep__next-cue" role="status">지역을 선택했어요 · 아래의 다음 질문 버튼으로 이어가요 ↓</p>}
         {step === 3 && (flat
-          ? <PrepFlatCards options={REGION_OPTIONS} value={region} onChange={setRegion} tunePrefix="prep-3" ariaLabel="지역" columns={6} compact />
+          ? <PrepFlatCards options={REGION_OPTIONS} value={region} onChange={setRegion} tunePrefix="prep-3" ariaLabel="지역" columns={9} compact />
           : <ChoiceCards options={REGION_OPTIONS} value={region} onChange={setRegion} icons={['region']} tunePrefix="prep-3" compact />)}
         {step === 4 && <div className="entry-growth-grid" role="group" aria-label="교실 성장 우선순위">
           {GROWTH_PRIORITY_OPTIONS.map((option, index) => {

diff --git a/src/features/journey/components/SceneFrame.tsx b/src/features/journey/components/SceneFrame.tsx
@@ -41,7 +41,10 @@ function JourneyHeader({ state, onAction, onTeacherOpen, teacherTriggerRef, prof
         {/* One translucent pill holding the whole cluster, as in the reference header. */}
         <div className="journey-cluster">
           <BgmControl enabled={state.audio.bgmEnabled} volume={state.audio.bgmVolume} onToggle={() => onAction({ type: 'SET_AUDIO', audio: toggleAudioChannel(state.audio, 'bgm') })} onVolumeChange={(bgmVolume) => onAction({ type: 'SET_AUDIO', audio: { ...state.audio, bgmVolume } })} />
-          <span className="journey-song" title={BGM_TITLE}>{BGM_TITLE}</span>
+          {/* Leftward tape marquee; the text is doubled so the loop has no visible seam. */}
+          <span className="journey-song" aria-label={BGM_TITLE}>
+            <span className="journey-song__track" aria-hidden="true"><span>{BGM_TITLE}</span><span>{BGM_TITLE}</span></span>
+          </span>
           <span className={`journey-equalizer ${state.audio.bgmEnabled ? 'is-playing' : ''}`} aria-hidden="true">{Array.from({ length: 6 }, (_, index) => <i key={index} />)}</span>
           <span className="journey-cluster__divider" aria-hidden="true" />
           {/* The profile IS the teacher-panel trigger now — there is no second button. */}

diff --git a/index.html b/index.html
@@ -7,10 +7,17 @@
     <meta name="color-scheme" content="dark" />
     <meta name="description" content="나의 교사 유형을 발견하고, 선택으로 우리반 게임을 완성합니다." />
     <link rel="canonical" href="__SITE_URL__/" />
-    <link rel="icon" href="./favicon.svg" type="image/svg+xml" />
-    <link rel="icon" href="./favicon-32x32.png" sizes="32x32" type="image/png" />
+    <!-- Brand emblem favicon; the inline script below swaps it to the grayscale variant
+         while the tab is in the background, back to colour when it's active again. -->
+    <link rel="icon" id="favicon" href="./favicon-32x32.png" sizes="32x32" type="image/png" />
     <link rel="apple-touch-icon" href="./apple-touch-icon.png" sizes="180x180" />
     <link rel="manifest" href="./site.webmanifest" />
+    <script>
+      document.addEventListener('visibilitychange', function () {
+        var icon = document.getElementById('favicon')
+        if (icon) icon.href = document.hidden ? './favicon-32x32-gray.png' : './favicon-32x32.png'
+      })
+    </script>
 
     <meta property="og:locale" content="ko_KR" />
     <meta property="og:type" content="website" />

diff --git a/src/data/sceneAssets.ts b/src/data/sceneAssets.ts
@@ -1,6 +1,6 @@
-/** 16:9 start art. The headline, sub-copy, fact chips and quest board are painted in,
- *  so the live DOM only supplies the two buttons that sit between them. */
-import classcadeStartMaster from '../assets/classcade/master-screens/start-master-v3.png'
+/** 16:9 start art, v4: no painted UI text on the left — the headline, chips and buttons
+ *  are live DOM again. Only the quest board on the right is painted into the art. */
+import classcadeStartMaster from '../assets/classcade/master-screens/start-master-v4.png'
 import portalAcademyBackground from '../assets/portal-academy-background.png'
 import academyGatewayPlate from '../assets/classcade/master-screens/mobile-scene-parts/academy-gateway-plate.png'
 import nbtiQuestionBackdrop from '../assets/classcade/journey-interactive/nbti-question-backdrop.png'
